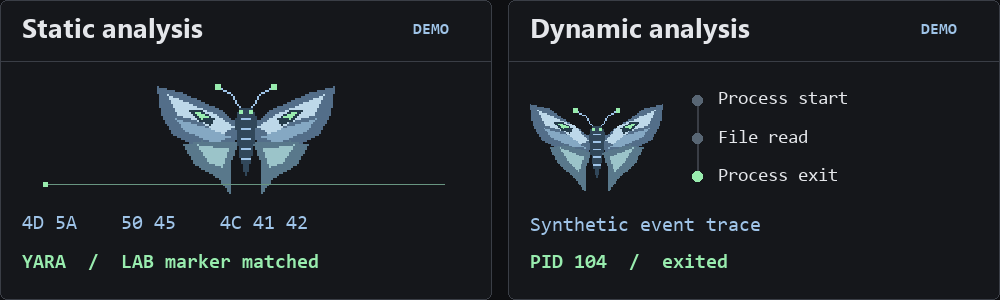
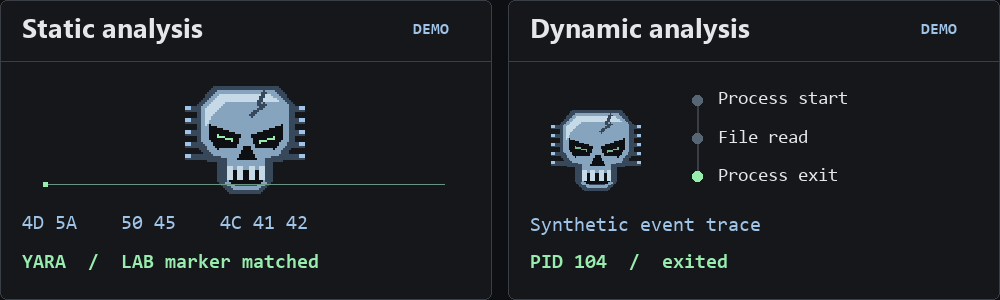
Redraw malware mascot as a pixel-art microchip skull

Changed region(s): [[0.155, 0.27, 0.341, 0.66], [0.527, 0.33, 0.682, 0.66]]

diff --git a/scripts/render_lab.py b/scripts/render_lab.py
@@ -22,28 +22,32 @@ def label(draw, xy, value, size, color, bold=False, mono=False):
 
 
 def specimen(phase):
-    """Mirror a hand-pixelled circuit moth around its segmented thorax."""
+    """A socketed silicon skull with pulsing diagnostic LEDs."""
     sprite = Image.new('RGBA', (96, 68))
     draw = ImageDraw.Draw(sprite)
-    lift = round(2 * math.cos(phase))
-    for side in (-1, 1):
-        def wing(points, color):
-            draw.polygon([(48 + side * x, y + (lift if x > 14 else 0))
-                          for x, y in points], fill=color)
-        wing([(3,28),(12,20),(32,9),(44,6),(42,20),(36,30),(21,38),(6,36)], '#536e89')
-        wing([(6,28),(15,20),(39,10),(34,20),(21,24),(13,32)], '#bdd8e9')
-        wing([(8,33),(18,27),(35,22),(30,28),(16,34)], '#85a8c3')
-        wing([(4,36),(22,33),(31,35),(25,45),(13,54),(8,61),(8,46)], '#59788b')
-        wing([(9,39),(24,35),(18,44),(12,48)], '#9bc4c9')
-        wing([(16,22),(22,18),(28,18),(23,23),(18,25)], '#243b4a')
-        wing([(19,21),(23,19),(25,19),(22,22)], LIME)
-        draw.line([(48+side*2,20),(48+side*7,12),(48+side*14,8)],fill=ICE,width=1)
-        draw.rectangle((min(47+side*14,49+side*14),7,49+side*14,9),fill=LIME)
-    draw.polygon([(45,19),(51,19),(53,24),(51,41),(48,52),(45,42),(43,25)],fill='#31475a')
-    for y in (24,29,34,39,44):
-        draw.line((46,y,50,y),fill=ICE)
-    draw.rectangle((45,20,46,21),fill=LIME)
-    draw.rectangle((50,20,51,21),fill=LIME)
+    shadow = '#37485a'
+    steel = '#86a4be'
+    for y in range(18,44,6):
+        draw.rectangle((18,y,77,y+2), fill=shadow)
+        for x in (18,75):
+            draw.rectangle((x,y,x+2,y+1), fill=ICE)
+    draw.polygon([(24,17),(32,8),(64,8),(72,17),(72,36),(66,45),
+                  (61,46),(61,55),(55,61),(40,61),(34,55),(34,46),
+                  (29,45),(24,37)], fill=shadow)
+    draw.polygon([(26,18),(34,10),(62,10),(69,17),(69,35),(64,42),
+                  (57,44),(57,51),(39,51),(39,44),(32,42),(26,35)], fill=steel)
+    draw.polygon([(28,19),(35,12),(60,12),(64,15),(38,15),(31,22),(28,27)],fill='#c5d9e7')
+    draw.line([(57,11),(54,16),(57,17),(50,23)],fill=shadow,width=2)
+    for sign in (-1,1):
+        socket = [(3,32),(18,27),(18,34),(14,39),(5,38)]
+        draw.polygon([(48+sign*x,y) for x,y in socket],fill=INK)
+        glow = '#77b995' if math.cos(phase)<0 else LIME
+        draw.line([(48+sign*7,35),(48+sign*14,33)],fill=glow,width=2)
+    draw.polygon([(47,38),(50,38),(53,44),(44,44)],fill=INK)
+    draw.rectangle((39,50,57,56),fill=INK)
+    for x in (39,44,50,55):
+        draw.rectangle((x,48,x+2,54),fill='#c5d9e7')
+    draw.line([(38,55),(42,58),(54,58),(58,55)],fill=steel,width=2)
     return sprite.resize((192,136),Image.Resampling.NEAREST)
 
 
@@ -58,16 +62,16 @@ def analysis_demos():
             label(d,(left+22,18),title,27,WHITE,True)
             label(d,(left+413,24),'DEMO',16,ICE,True,True)
             d.line((left+1,61,left+490,61),fill=LINE)
-        moth = specimen(0)
-        im.paste(moth,(149,70),moth)
+        skull = specimen(0)
+        im.paste(skull,(149,70),skull)
         y = 83 + round(105*(1-math.cos(phase))/2)
         d.line((47,y,444,y),fill='#689581')
         d.rectangle((43,y-2,47,y+2),fill=LIME)
         label(d,(22,216),'4D 5A    50 45    4C 41 42',20,ICE,False,True)
         label(d,(22,254),'YARA  /  '+('LAB marker matched' if y>149 else 'scanning bytes'),20,LIME,True,True)
 
-        moth = specimen(phase).resize((144,102),Image.Resampling.NEAREST)
-        im.paste(moth,(524,98),moth)
+        skull = specimen(phase).resize((144,102),Image.Resampling.NEAREST)
+        im.paste(skull,(524,98),skull)
         stage = min(i//12,2)
         for j,event in enumerate(('Process start','File read','Process exit')):
             row = 99+j*38

diff --git a/README.md b/README.md
@@ -105,8 +105,8 @@ Open a project to explore its source.
 ## Malware analysis lab
 
 <picture>
-  <source media="(prefers-reduced-motion: reduce)" srcset="assets/lab-analysis.png" />
-  <img src="assets/lab-analysis.gif" width="100%" alt="Two illustrated demos. Static analysis scans a pixel-art circuit moth for a YARA marker. Dynamic analysis follows a simulated process starting, reading a file and exiting." />
+  <source media="(prefers-reduced-motion: reduce)" srcset="assets/lab-analysis.png?v=2" />
+  <img src="assets/lab-analysis.gif?v=2" width="100%" alt="Two illustrated demos. Static analysis scans a pixel-art microchip skull for a YARA marker. Dynamic analysis follows a simulated process starting, reading a file and exiting." />
 </picture>
 
 ## Contact
